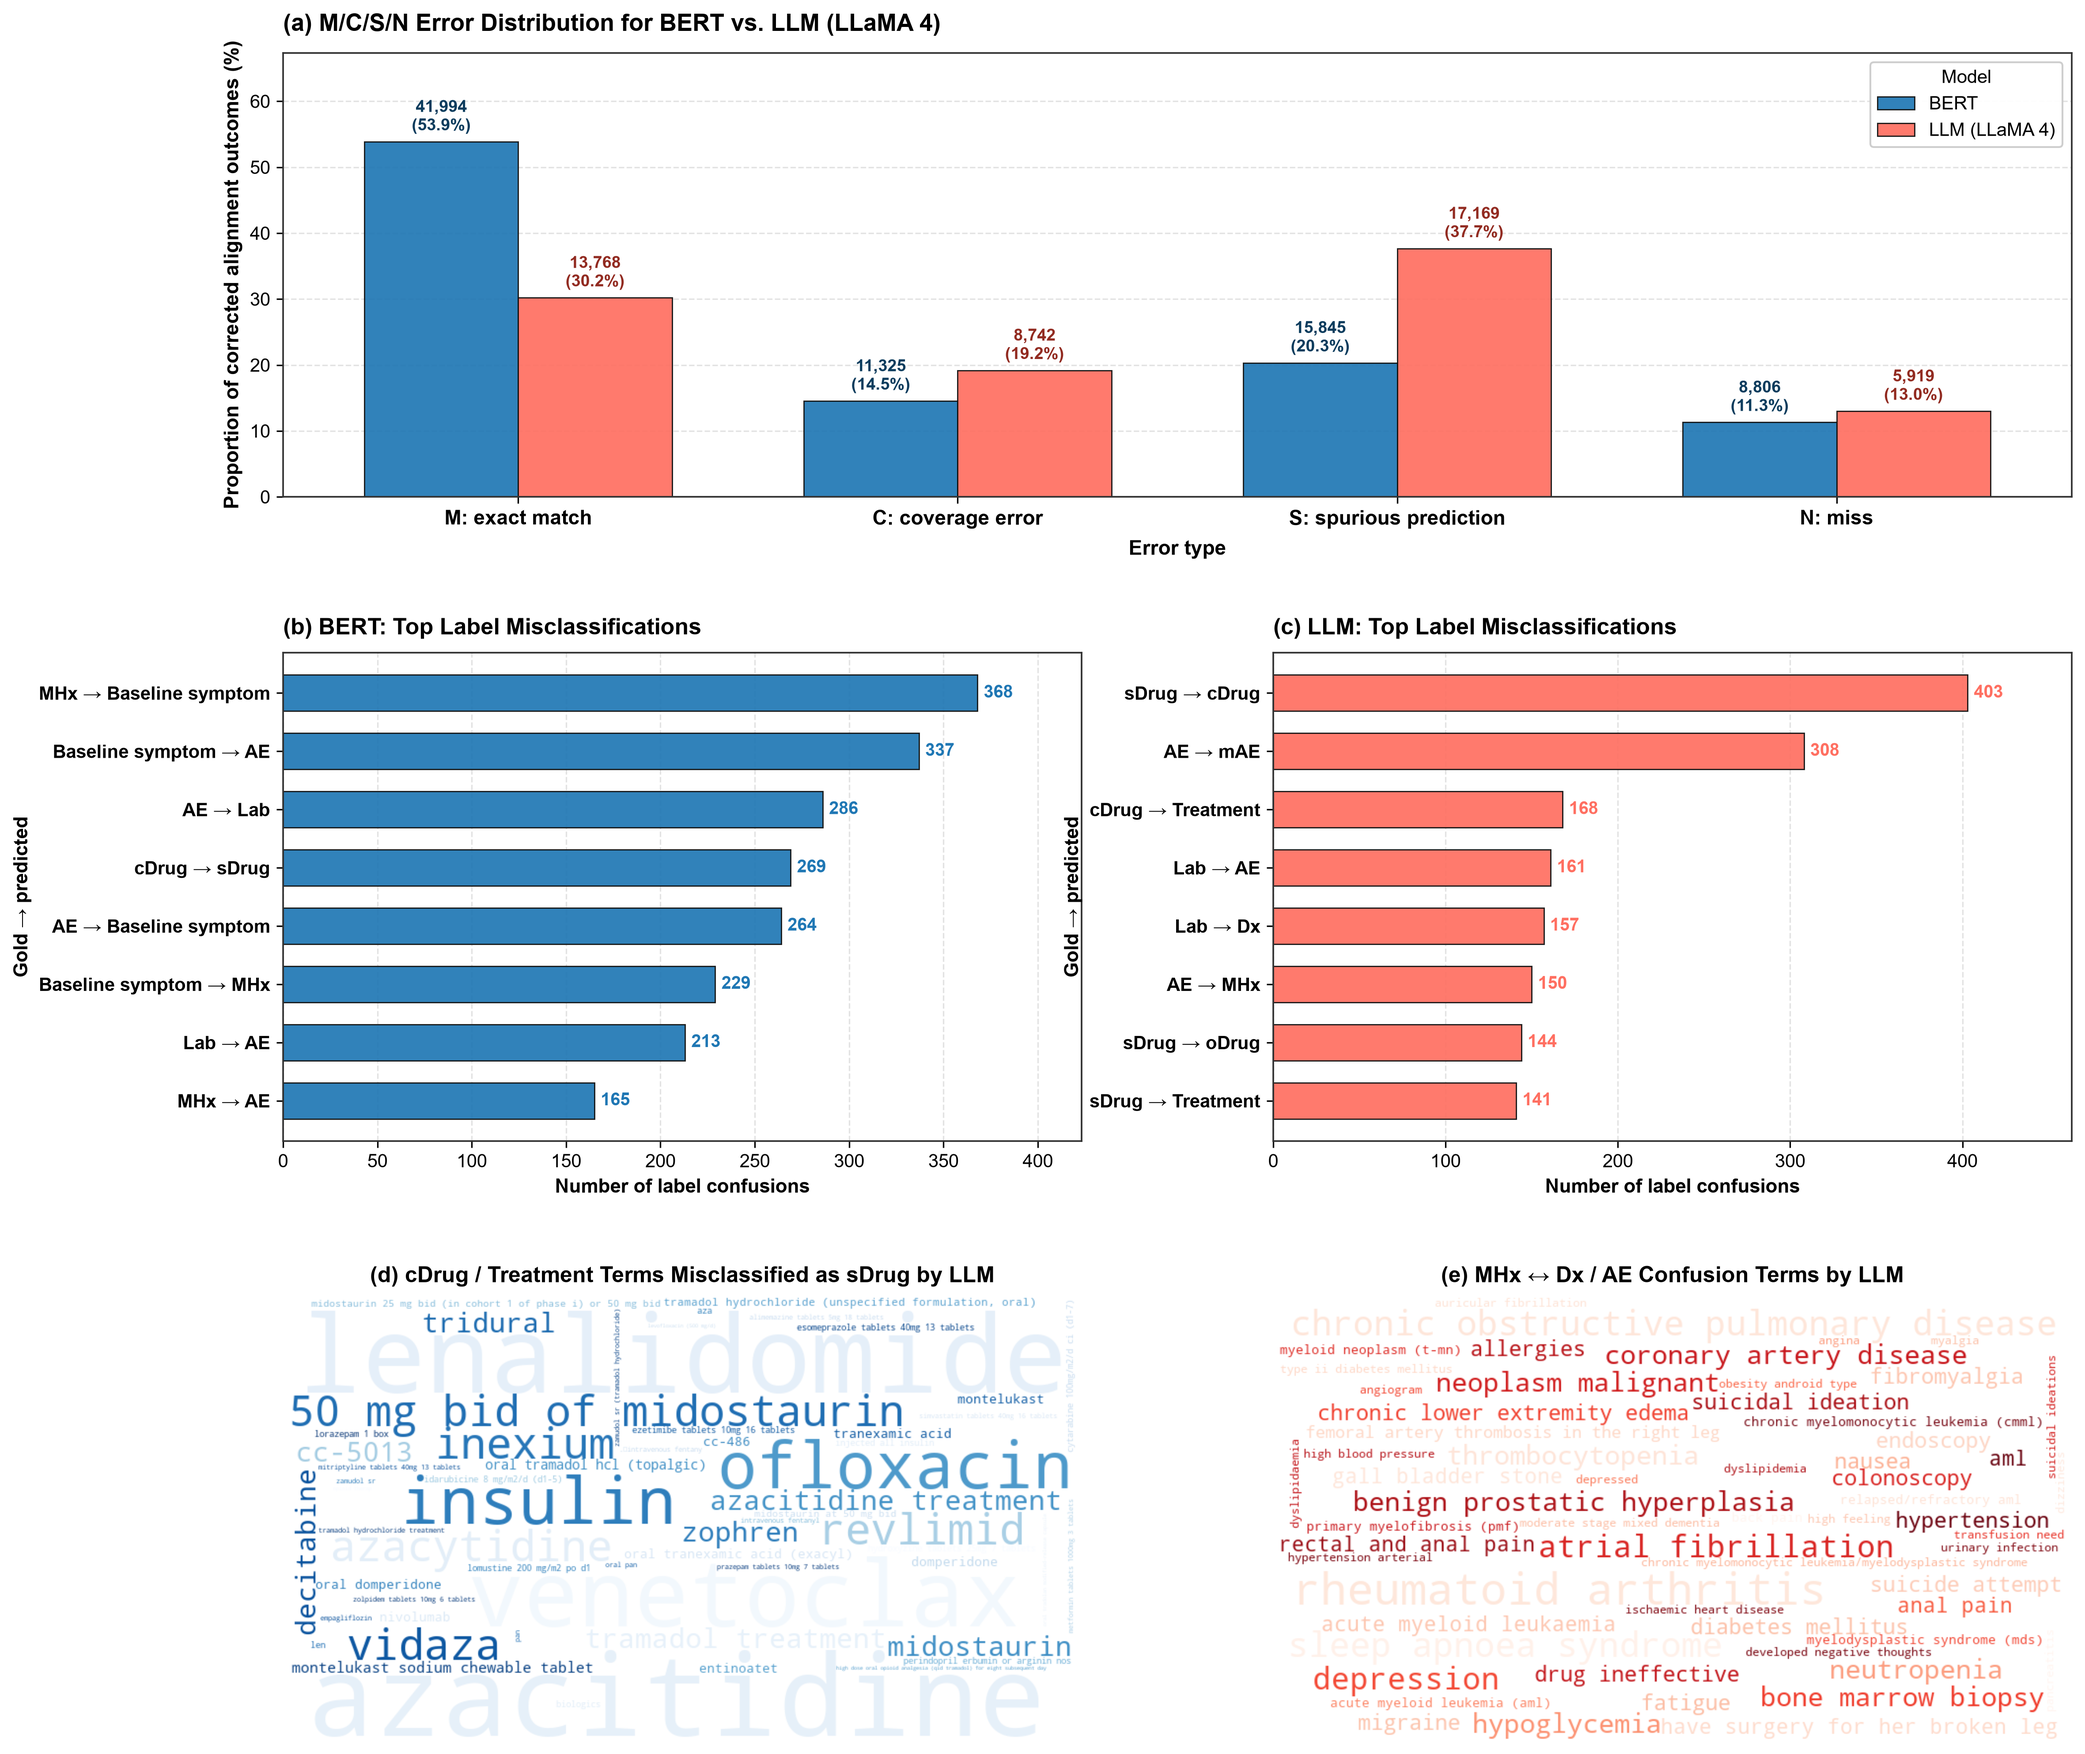
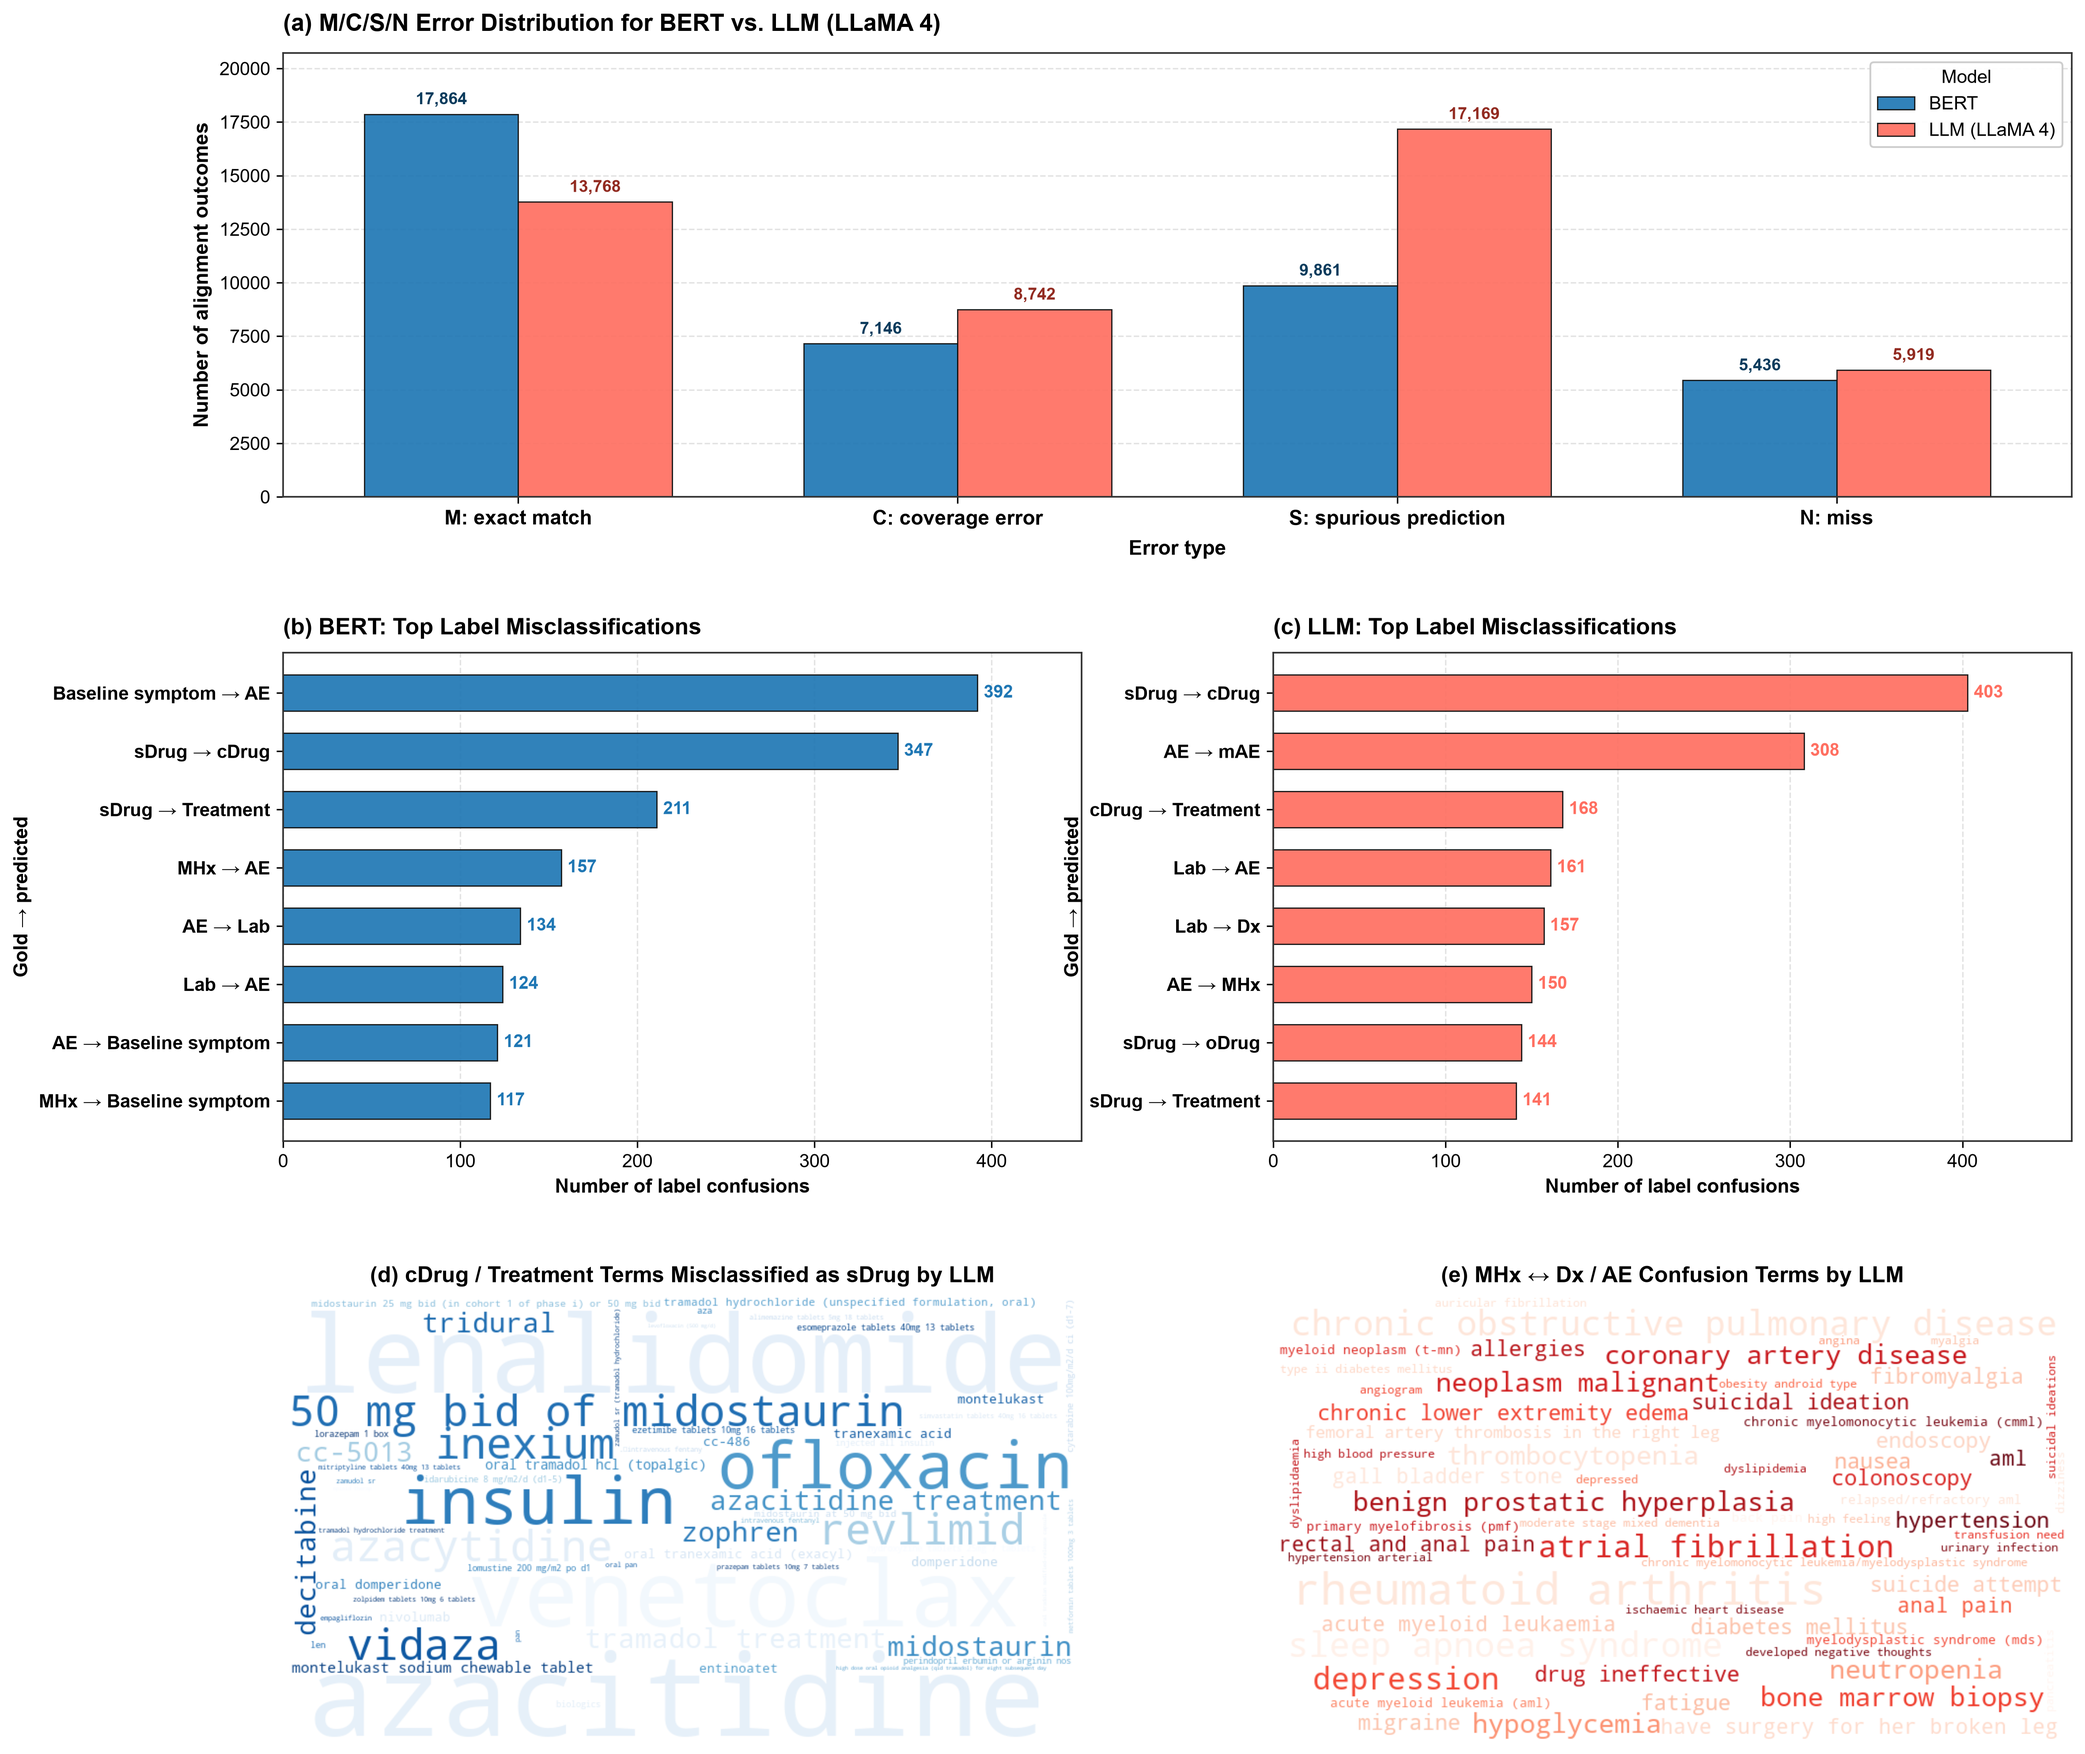
Use LOO BERT seed 42 in Figure 5

diff --git a/publication/scripts/generate_figure5.py b/publication/scripts/generate_figure5.py
@@ -1,14 +1,13 @@
 #!/usr/bin/env python3
 """Generate the reproducible FAERS error-analysis Figure 5.
 
-All data come from the current raw evaluator outputs, not a legacy aggregate:
-``results/llama4_runs_FAERS/llama4_raw.xlsx`` and
-``results/bert_runs_FAERS/fold_*_raw.xlsx``. The legacy evaluator reserves
-partial matches (C) for overlapping spans with the same label; wrong-label
-predictions therefore remain S rows while their gold spans remain N rows. This
-script corrects that bookkeeping: every one-to-one overlapping S/N wrong-label
-pair is reclassified as one C outcome. Panels (a)--(e) are generated from these
-corrected, source-derived data.
+All data come from current raw evaluator outputs, not a legacy aggregate:
+``results/llama4_runs_FAERS/llama4_raw.xlsx`` and the requested seed from
+``results/bert_runs_FAERS_LOO/raw.xlsx``. The LOO evaluator already records
+class confusions as C. The legacy LLaMA evaluator instead leaves wrong-label
+overlaps as one S row plus one N row, so this script deterministically collapses
+each one-to-one overlapping S/N wrong-label pair into C. Panels (a)--(e) are
+generated from these source-derived data.
 """
 
 from __future__ import annotations
@@ -16,6 +15,7 @@ from __future__ import annotations
 import json
 import os
 import tempfile
+import argparse
 from collections import Counter, defaultdict
 from pathlib import Path
 from typing import Iterable, Sequence
@@ -86,19 +86,22 @@ def read_raw_workbook(path: Path, group_columns: Sequence[str]) -> pd.DataFrame:
     return frame
 
 
-def load_inputs(repo_root: Path) -> tuple[pd.DataFrame, pd.DataFrame, list[Path]]:
+def load_inputs(
+    repo_root: Path,
+    bert_seed: int,
+) -> tuple[pd.DataFrame, pd.DataFrame, Path]:
     results_dir = repo_root / "publication" / "results"
     llama_path = results_dir / "llama4_runs_FAERS" / "llama4_raw.xlsx"
-    bert_dir = results_dir / "bert_runs_FAERS"
-    bert_paths = sorted(p for p in bert_dir.glob("fold_*_raw.xlsx") if not p.name.startswith("~$"))
-    if not bert_paths:
-        raise FileNotFoundError(f"No BERT raw fold workbooks found in {bert_dir}")
+    bert_path = results_dir / "bert_runs_FAERS_LOO" / "raw.xlsx"
     llama = read_raw_workbook(llama_path, ("document",))
-    bert = pd.concat(
-        [read_raw_workbook(path, ("fold", "sent_id")) for path in bert_paths],
-        ignore_index=True,
-    )
-    return llama, bert, bert_paths
+    bert_all = read_raw_workbook(bert_path, ("fold_name", "seed", "doc_idx"))
+    if "seed" not in bert_all.columns:
+        raise ValueError(f"{bert_path} does not include the required seed column")
+    bert = bert_all.loc[bert_all["seed"] == bert_seed].copy()
+    if bert.empty:
+        available = sorted(int(seed) for seed in bert_all["seed"].dropna().unique())
+        raise ValueError(f"BERT seed {bert_seed} is absent from {bert_path}; available seeds: {available}")
+    return llama, bert, bert_path
 
 
 def match_type_counts(frame: pd.DataFrame) -> dict[str, int]:
@@ -200,6 +203,32 @@ def correct_label_mismatches(
     )
 
 
+def recorded_class_confusions(
+    frame: pd.DataFrame,
+    group_columns: Sequence[str],
+) -> pd.DataFrame:
+    """Return class confusions directly recorded as C by the current evaluator."""
+    columns = ["source_group", "label_gold", "label_pred", "gold_text", "pred_text", "iou"]
+    if "error_subtype" not in frame.columns:
+        return pd.DataFrame(columns=columns)
+    rows = frame.loc[
+        (frame["match_type"] == "C") & (frame["error_subtype"] == "class_confusion")
+    ]
+    if rows.empty:
+        return pd.DataFrame(columns=columns)
+    records = []
+    for row in rows.itertuples(index=False):
+        records.append({
+            "source_group": "|".join(str(getattr(row, column)) for column in group_columns),
+            "label_gold": canonical_label(row.label_gold),
+            "label_pred": canonical_label(row.label_pred),
+            "gold_text": str(row.gold_text),
+            "pred_text": str(row.pred_text),
+            "iou": span_iou(int(row.gold_start), int(row.gold_end), int(row.pred_start), int(row.pred_end)),
+        })
+    return pd.DataFrame(records, columns=columns)
+
+
 def top_confusions(confusions: pd.DataFrame, top_k: int = 8) -> list[tuple[str, int]]:
     if confusions.empty:
         return []
@@ -258,7 +287,8 @@ def plot_word_cloud(axis, frequencies: Counter[str], colormap: str, title: str) 
 def save_audit_data(
     output_path: Path,
     llama_path: Path,
-    bert_paths: Iterable[Path],
+    bert_path: Path,
+    bert_seed: int,
     bert_raw_counts: dict[str, int],
     llama_raw_counts: dict[str, int],
     bert_corrected_counts: dict[str, int],
@@ -272,7 +302,8 @@ def save_audit_data(
     payload = {
         "inputs": {
             "llama4_raw": str(llama_path.relative_to(repo_root)),
-            "bert_raw_folds": [str(path.relative_to(repo_root)) for path in bert_paths],
+            "bert_raw": str(bert_path.relative_to(repo_root)),
+            "bert_seed": bert_seed,
         },
         "raw_match_type_counts": {"BERT": bert_raw_counts, "LLaMA_4": llama_raw_counts},
         "corrected_match_type_counts": {
@@ -293,18 +324,29 @@ def save_audit_data(
     output_path.write_text(json.dumps(payload, indent=2, ensure_ascii=False) + "\n", encoding="utf-8")
 
 
+def parse_args() -> argparse.Namespace:
+    parser = argparse.ArgumentParser(description=__doc__)
+    parser.add_argument(
+        "--bert-seed", type=int, default=42,
+        help="LOO BERT random seed to include in Figure 5 (default: 42).",
+    )
+    return parser.parse_args()
+
+
 def main() -> None:
+    args = parse_args()
     repo_root = Path(__file__).resolve().parents[2]
     results_dir = repo_root / "publication" / "results"
     figures_dir = results_dir / "figures"
     manuscript_dir = repo_root / "publication" / "manuscripts"
     figures_dir.mkdir(parents=True, exist_ok=True)
 
-    llama, bert, bert_paths = load_inputs(repo_root)
+    llama, bert, bert_path = load_inputs(repo_root, args.bert_seed)
     llama_path = results_dir / "llama4_runs_FAERS" / "llama4_raw.xlsx"
     bert_raw_counts = match_type_counts(bert)
     llama_raw_counts = match_type_counts(llama)
-    bert_counts, bert_confusions = correct_label_mismatches(bert, ("fold", "sent_id"))
+    bert_counts, _ = correct_label_mismatches(bert, ("fold_name", "seed", "doc_idx"))
+    bert_confusions = recorded_class_confusions(bert, ("fold_name", "seed", "doc_idx"))
     llama_counts, llama_confusions = correct_label_mismatches(llama, ("document",))
     bert_top = top_confusions(bert_confusions)
     llama_top = top_confusions(llama_confusions)
@@ -316,9 +358,10 @@ def main() -> None:
 
     print("BERT raw M/C/S/N:", bert_raw_counts)
     print("BERT corrected M/C/S/N:", bert_counts)
+    print("BERT source: LOO seed", args.bert_seed)
     print("LLaMA 4 raw M/C/S/N:", llama_raw_counts)
     print("LLaMA 4 corrected M/C/S/N:", llama_counts)
-    print("BERT S/N-to-C corrections:", len(bert_confusions))
+    print("BERT recorded class confusions:", len(bert_confusions))
     print("LLaMA 4 S/N-to-C corrections:", len(llama_confusions))
     print("LLaMA 4 panel (d) terms:", sum(drug_terms.values()))
     print("LLaMA 4 panel (e) terms:", sum(history_terms.values()))
@@ -333,20 +376,19 @@ def main() -> None:
     grid = figure.add_gridspec(3, 2, height_ratios=[1.0, 1.1, 1.0], hspace=0.34, wspace=0.24)
     axis_a = figure.add_subplot(grid[0, :])
     error_labels = ["M: exact match", "C: coverage error", "S: spurious prediction", "N: miss"]
-    bert_total, llama_total = sum(bert_counts.values()), sum(llama_counts.values())
-    bert_percentages = [bert_counts[code] / bert_total * 100 for code in MATCH_TYPES]
-    llama_percentages = [llama_counts[code] / llama_total * 100 for code in MATCH_TYPES]
+    bert_values = [bert_counts[code] for code in MATCH_TYPES]
+    llama_values = [llama_counts[code] for code in MATCH_TYPES]
     x, width = np.arange(len(MATCH_TYPES)), 0.35
-    axis_a.bar(x - width / 2, bert_percentages, width, label="BERT", color=bert_color, alpha=0.92, edgecolor="#111", linewidth=0.7, zorder=2)
-    axis_a.bar(x + width / 2, llama_percentages, width, label="LLM (LLaMA 4)", color=llama_color, alpha=0.92, edgecolor="#111", linewidth=0.7, zorder=2)
+    axis_a.bar(x - width / 2, bert_values, width, label="BERT", color=bert_color, alpha=0.92, edgecolor="#111", linewidth=0.7, zorder=2)
+    axis_a.bar(x + width / 2, llama_values, width, label="LLM (LLaMA 4)", color=llama_color, alpha=0.92, edgecolor="#111", linewidth=0.7, zorder=2)
     for index, code in enumerate(MATCH_TYPES):
-        axis_a.text(x[index] - width / 2, bert_percentages[index] + 1.0, f"{bert_counts[code]:,}\n({bert_percentages[index]:.1f}%)", ha="center", va="bottom", fontsize=9.2, fontweight="bold", color="#0B3C5D")
-        axis_a.text(x[index] + width / 2, llama_percentages[index] + 1.0, f"{llama_counts[code]:,}\n({llama_percentages[index]:.1f}%)", ha="center", va="bottom", fontsize=9.2, fontweight="bold", color="#922B21")
+        axis_a.text(x[index] - width / 2, bert_values[index] + 300, f"{bert_counts[code]:,}", ha="center", va="bottom", fontsize=9.2, fontweight="bold", color="#0B3C5D")
+        axis_a.text(x[index] + width / 2, llama_values[index] + 300, f"{llama_counts[code]:,}", ha="center", va="bottom", fontsize=9.2, fontweight="bold", color="#922B21")
     axis_a.set_title("(a) M/C/S/N Error Distribution for BERT vs. LLM (LLaMA 4)", fontsize=13, fontweight="bold", loc="left", pad=12)
     axis_a.set_xticks(x)
     axis_a.set_xticklabels(error_labels, fontsize=11, fontweight="bold")
-    axis_a.set_ylim(0, max(max(bert_percentages), max(llama_percentages)) * 1.25)
-    axis_a.set_ylabel("Proportion of corrected alignment outcomes (%)", fontsize=11, fontweight="bold")
+    axis_a.set_ylim(0, max(max(bert_values), max(llama_values)) * 1.16)
+    axis_a.set_ylabel("Number of alignment outcomes", fontsize=11, fontweight="bold")
     axis_a.set_xlabel("Error type", fontsize=11, fontweight="bold", labelpad=6)
     axis_a.grid(axis="y", linestyle="--", alpha=0.35, zorder=0)
     axis_a.legend(title="Model", title_fontsize=10, loc="upper right", fontsize=10, framealpha=0.95)
@@ -364,7 +406,7 @@ def main() -> None:
 
     audit_path = figures_dir / "figure5_data.json"
     save_audit_data(
-        audit_path, llama_path, bert_paths,
+        audit_path, llama_path, bert_path, args.bert_seed,
         bert_raw_counts, llama_raw_counts, bert_counts, llama_counts,
         bert_top, llama_top, drug_terms, history_terms,
     )
